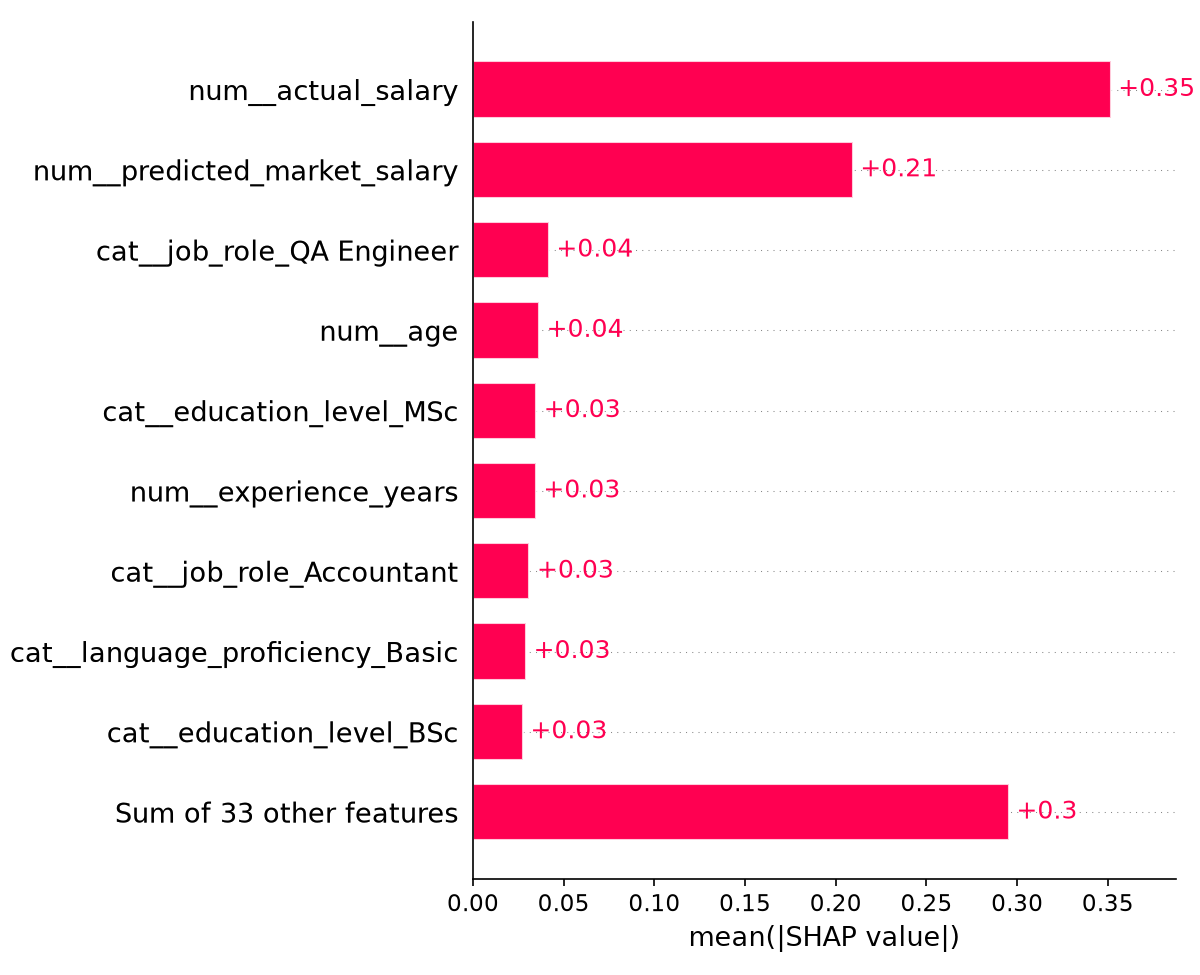
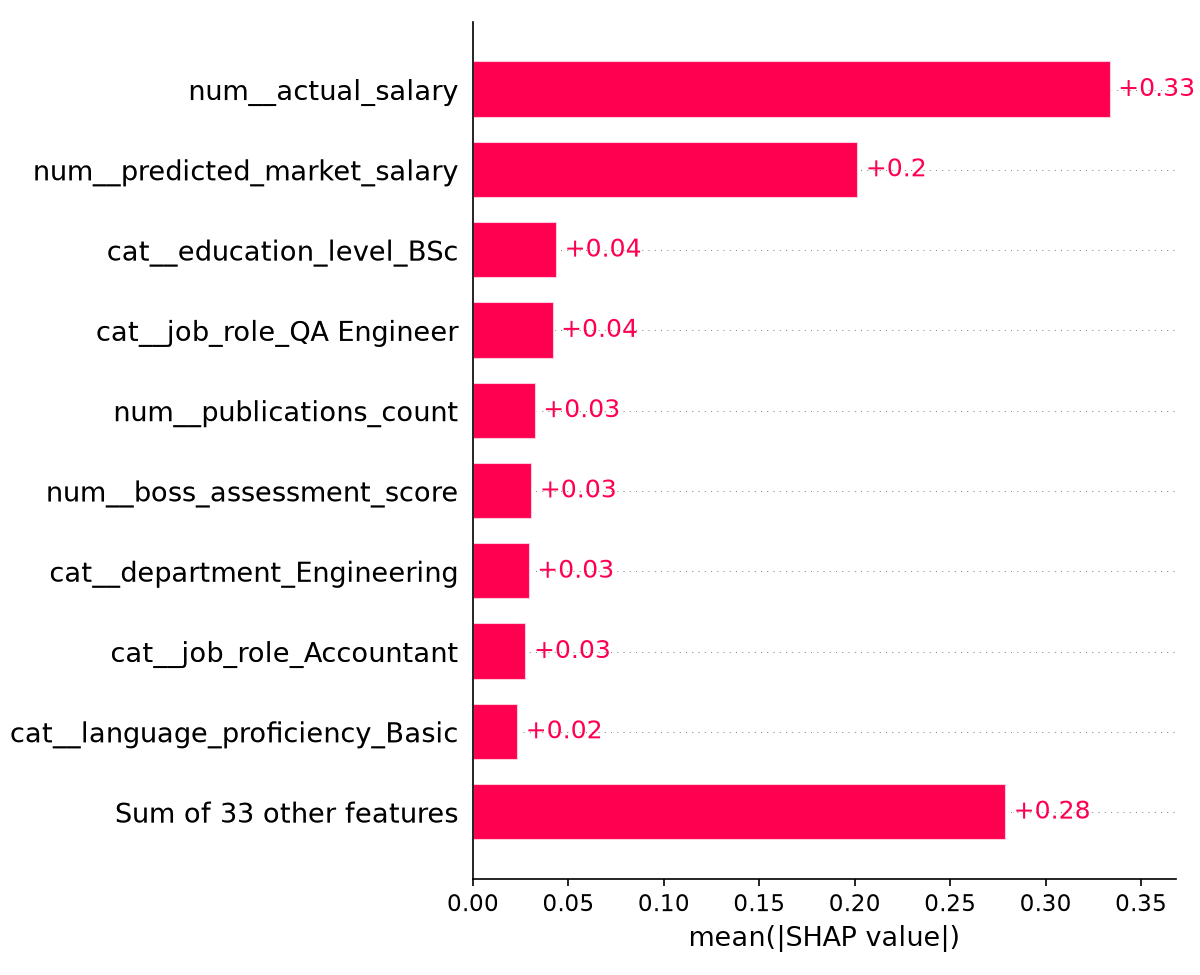
chore: retrain on synthetic base plus survey rows
Documents the retrain path and the known caveats: flat boss assessment,
survey training answers read as counts, and in-sample classifier input.

Constrains served-model selection to linear candidates (LinearRegression,
LogisticRegression) in ml/train_models.py: compensation/data.py's
top_factors() explains predictions via estimator.coef_, which tree models
don't expose. RandomForest edges out LinearRegression on RMSE (9837 vs
10110) on this data but is deliberately not served, since it would only
give global feature importances rather than a per-employee explanation.
The comparison table still reports all three models honestly.

diff --git a/ml/train_models.py b/ml/train_models.py
@@ -49,6 +49,13 @@ REGRESSION_TARGET = "actual_salary"
 CLASSIFICATION_TARGET = "satisfaction_label"
 CLASSIFICATION_EXTRA_NUMERIC = ["actual_salary", "predicted_market_salary"]
 
+# top_factors() in compensation/data.py explains predictions from
+# estimator.coef_, which only linear models expose. Selection for the
+# SERVED artifact is therefore constrained to linear candidates; the
+# comparison table below still reports every model honestly.
+LINEAR_REGRESSION_MODELS = {"LinearRegression"}
+LINEAR_CLASSIFICATION_MODELS = {"LogisticRegression"}
+
 RANDOM_STATE = 42
 
 
@@ -99,12 +106,18 @@ def run_regression(df, out_dir, artifacts_dir):
 
     results = pd.DataFrame(rows).sort_values("RMSE")
     best_name = results.iloc[0]["model"]
+    linear_results = results[results["model"].isin(LINEAR_REGRESSION_MODELS)]
+    served_name = linear_results.iloc[0]["model"]
     print("\n=== Regression: predicting expected_salary ===")
     print(results.to_string(index=False))
-    print(f"Best model: {best_name}")
+    if served_name == best_name:
+        print(f"Best model: {best_name}")
+    else:
+        print(f"Best model overall: {best_name}")
+        print(f"Best linear model (served, explainable): {served_name}")
 
-    explain_model(fitted[best_name], X_train, X_test, feature_names, out_dir, prefix="regression")
-    pipeline = save_pipeline(preprocessor, fitted[best_name], artifacts_dir, "regression_model.joblib")
+    explain_model(fitted[served_name], X_train, X_test, feature_names, out_dir, prefix="regression")
+    pipeline = save_pipeline(preprocessor, fitted[served_name], artifacts_dir, "regression_model.joblib")
     return results, pipeline
 
 
@@ -142,12 +155,18 @@ def run_classification(df, out_dir, artifacts_dir):
 
     results = pd.DataFrame(rows).sort_values("ROC_AUC", ascending=False)
     best_name = results.iloc[0]["model"]
+    linear_results = results[results["model"].isin(LINEAR_CLASSIFICATION_MODELS)]
+    served_name = linear_results.iloc[0]["model"]
     print("\n=== Classification: predicting satisfaction_label ===")
     print(results.to_string(index=False))
-    print(f"Best model: {best_name}")
+    if served_name == best_name:
+        print(f"Best model: {best_name}")
+    else:
+        print(f"Best model overall: {best_name}")
+        print(f"Best linear model (served, explainable): {served_name}")
 
-    explain_model(fitted[best_name], X_train, X_test, feature_names, out_dir, prefix="classification")
-    save_pipeline(preprocessor, fitted[best_name], artifacts_dir, "classification_model.joblib")
+    explain_model(fitted[served_name], X_train, X_test, feature_names, out_dir, prefix="classification")
+    save_pipeline(preprocessor, fitted[served_name], artifacts_dir, "classification_model.joblib")
     return results
 
 

diff --git a/ml/README.md b/ml/README.md
@@ -1,0 +1,66 @@
+# ML pipeline
+
+## Data files
+
+| File | Written by | Notes |
+|---|---|---|
+| `data/synthetic_employee_compensation.csv` | `generate_dataset.py` | Immutable training base. Never appears in the UI. |
+| `data/real_employees.csv` | `manage.py export_employees` | Registered employees. Rewritten each run. |
+| `data/survey_employees.csv` | `data/survey_data_processor.py` | Cleaned survey responses. Rewritten each run. |
+
+Nothing appends to the synthetic base. Each generated file is rewritten
+from scratch, so reruns cannot duplicate rows.
+
+Survey rows number their `employee_id` starting from 1, so those ids
+collide with synthetic `employee_id` 1–7 once the files are concatenated
+for training. This is harmless — `employee_id` is not in
+`CATEGORICAL_FEATURES` or `NUMERIC_FEATURES`, so no model ever sees it —
+but anyone reading the combined file should know the column is not a
+unique key.
+
+## Retraining
+
+```bash
+venv/bin/python manage.py export_employees
+venv/bin/python ml/data/survey_data_processor.py
+venv/bin/python ml/train_models.py --data \
+  ml/data/synthetic_employee_compensation.csv \
+  ml/data/real_employees.csv \
+  ml/data/survey_employees.csv
+```
+
+Artifacts land in `artifacts/`; the Django app loads them and never trains.
+
+## Known caveats
+
+- The regression target is `actual_salary` — what someone with a given
+  profile actually earns. Being paid below the prediction is the
+  underpayment signal. It is **not** a "fair salary": no such label
+  exists for real people.
+- `boss_assessment_score` is a flat 10 for every real employee, while
+  synthetic rows vary across 0–10. The models learn a positive
+  association from the synthetic data and then see the maximum for
+  everyone real, which biases real predictions upward. Fix by storing
+  real ratings and retraining; nothing else has to change.
+- Survey training answers were collected as 0–10 ratings before
+  training became a count, and are read as counts. Immaterial at seven
+  rows against a 1,000-row base. Future surveys should ask for a count.
+- The classifier is trained on the regression model's predictions,
+  which are in-sample for the 80% of rows the regressor trained on.
+- Switching the regression target to `actual_salary` does **not** fully
+  break the circularity on synthetic data. `ml/generate_dataset.py`
+  defines `actual_salary = expected_salary * gauss(1.0, 0.12)`, so on
+  synthetic rows the new target is still only about 12% noise away from
+  the old formula-derived one. That is why R2 stays high (~0.92) rather
+  than collapsing. The circularity is genuinely broken only for real
+  rows, where `actual_salary` is an observed fact rather than a derived
+  number. Any write-up of model results must say this — the target
+  switch alone did not solve the problem.
+- Model selection for the served artifacts is constrained to linear
+  models (`LinearRegression`, `LogisticRegression`), because the
+  per-employee explanation reads `estimator.coef_`. On the current data
+  a RandomForest scores marginally better on RMSE (9837 vs 10110); it is
+  deliberately not served, because tree models expose only global
+  feature importances, which cannot explain an individual prediction.
+  Revisit if the gap ever becomes large — that would mean switching the
+  explanation method too, not just the model.
